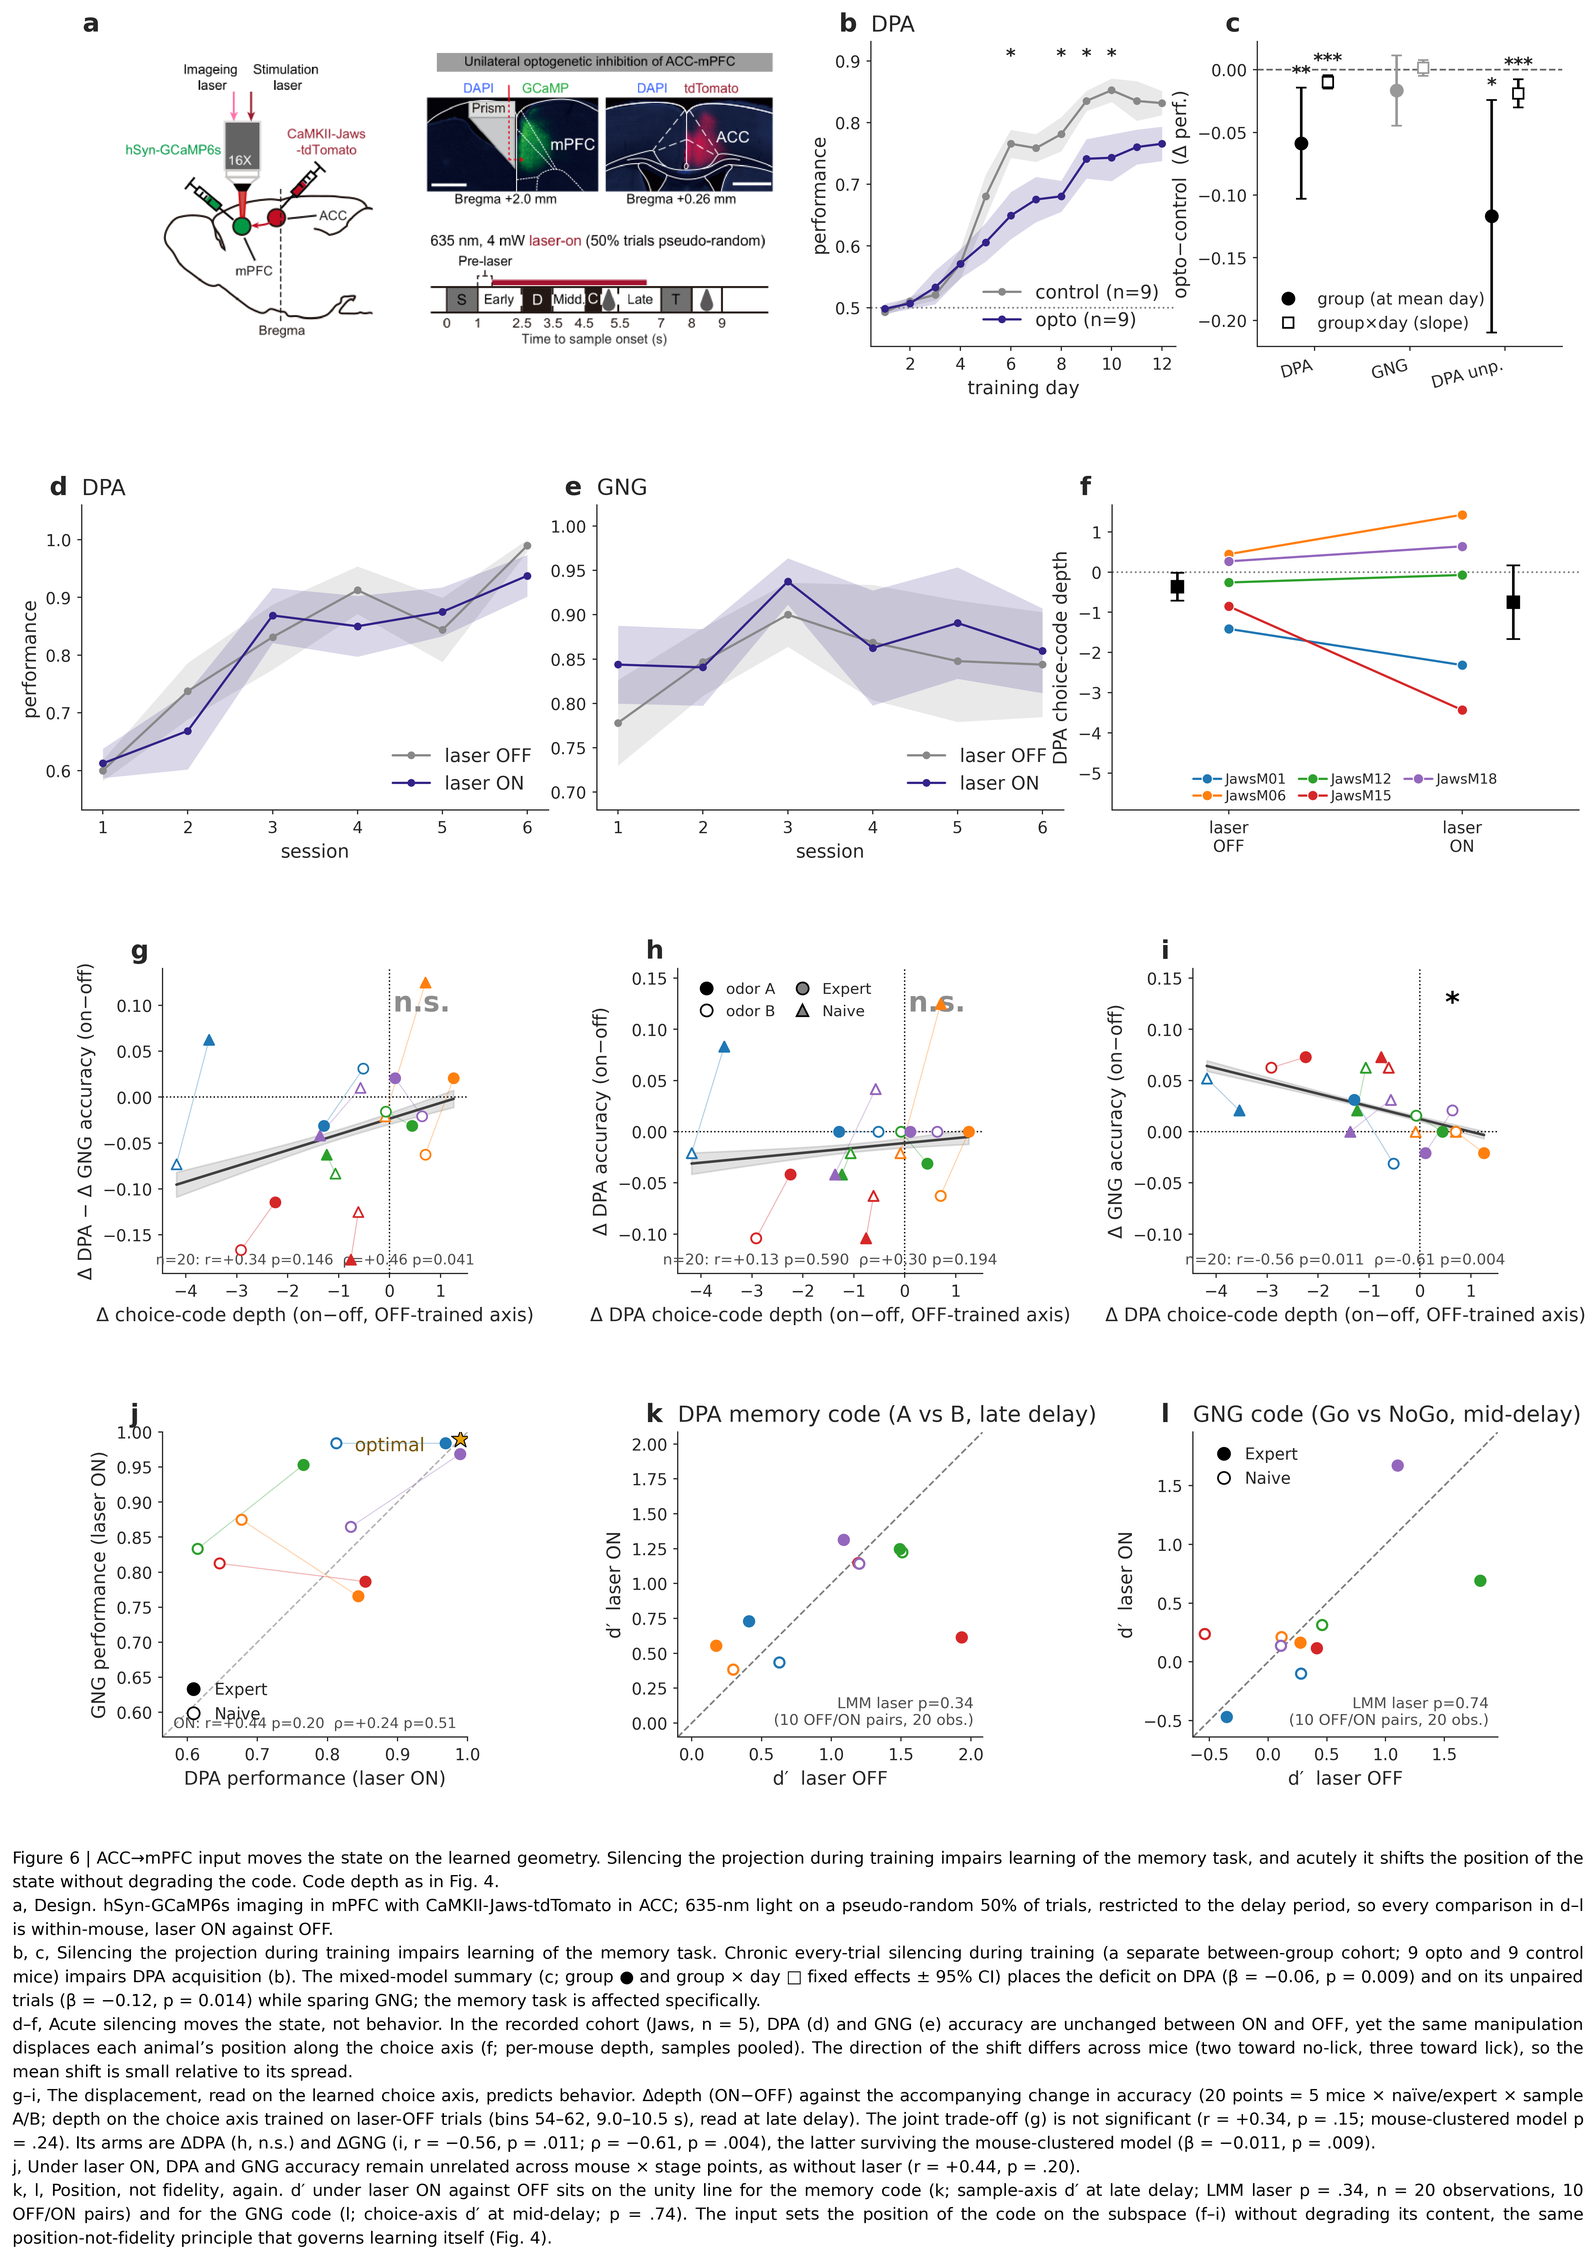
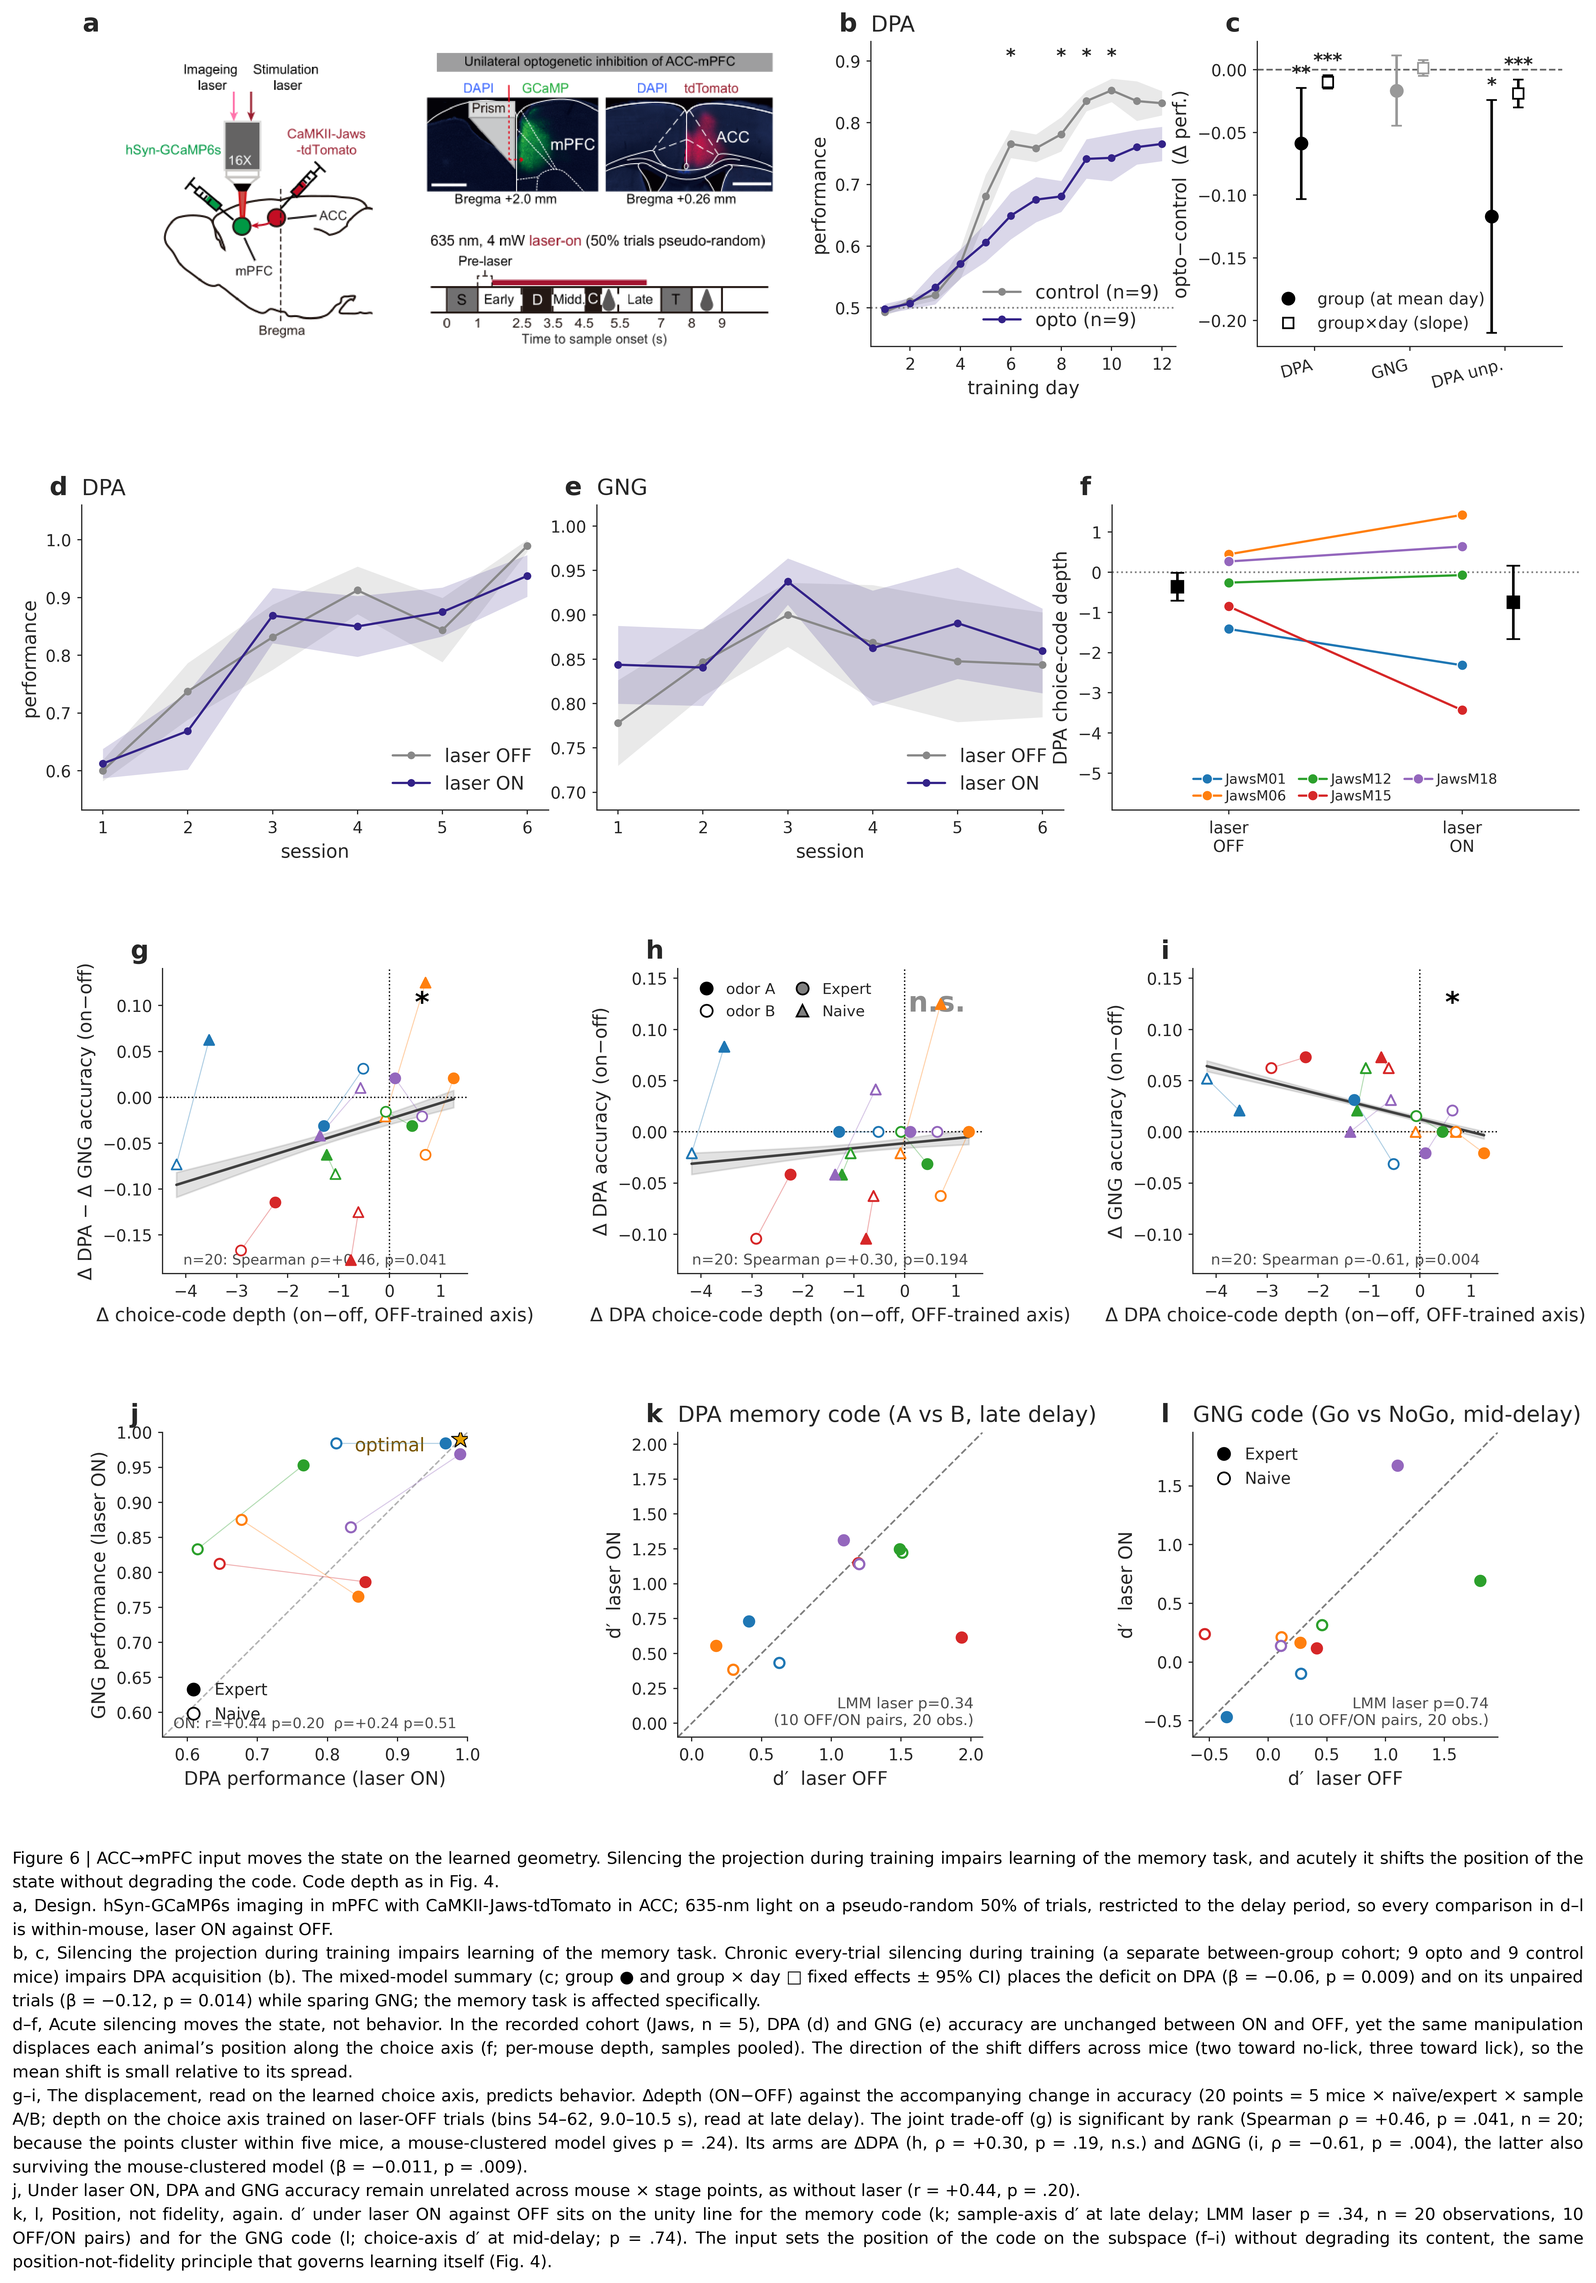
Fig 6 g-i: Spearman only, verdict from Spearman (g trade-off rho +0.46 p .041)
Leon: report Spearman in g, h and i; the joint trade-off is significant by rank. Pearson r removed
from the three panels and the text; the mouse-clustered model p stays in the legend as the
clustering disclosure. Fig 6 re-rendered and re-exported; share pages republished.

Claude-Session: https://claude.ai/code/session_01PzGzWMKHPqqyp4poHedntF

diff --git a/overlaps/fig_behavior_opto_main.py b/overlaps/fig_behavior_opto_main.py
@@ -673,10 +673,10 @@ for ax, key, ylab, msg in [
     r_p, p_p = pearsonr(xdep[ok], yv[ok]); rho, ps = spearmanr(xdep[ok], yv[ok])
     _b, _p, _nm, _no = _gi_lmm(key)                 # mouse-respecting LMM — logged caveat, NOT drawn
     print(f'  {key}: corr r={r_p:+.2f} p={p_p:.3f} ρ={rho:+.2f} p={ps:.3f}  |  LMM β={_b:+.3f} p={_p:.3f} ({_nm}m {_no}obs)')
-    ax.text(0.5, 0.02, f'n={ok.sum()}: r={r_p:+.2f} p={p_p:.3f}  ρ={rho:+.2f} p={ps:.3f}',
+    ax.text(0.5, 0.02, f'n={ok.sum()}: Spearman ρ={rho:+.2f}, p={ps:.3f}',   # Spearman only (Leon 2026-09-08)
             transform=ax.transAxes, ha='center', va='bottom', fontsize=PS*6.5, color='0.3')
-    ax.text(0.85, 0.93, '*' if _p < 0.05 else 'n.s.', transform=ax.transAxes, ha='center',        # verdict = mouse-clustered model
-            va='top', fontsize=PS*12, fontweight='bold', color='k' if _p < 0.05 else '0.55')
+    ax.text(0.85, 0.93, '*' if ps < 0.05 else 'n.s.', transform=ax.transAxes, ha='center',        # verdict = Spearman (Leon 2026-09-08); clustered model in the legend
+            va='top', fontsize=PS*12, fontweight='bold', color='k' if ps < 0.05 else '0.55')
     ax.set_xlabel('Δ choice-code depth (on−off)' if POSTER          # short: narrow poster cells
                   else f'Δ DPA choice-code depth (on−off, {AXIS_LBL})'); ax.set_ylabel(ylab)
     ax.set_title(msg, loc='left', fontsize=TITLE_FS)
@@ -771,10 +771,10 @@ _ok = ~(np.isnan(_xdep) | np.isnan(_ytr))
 _rp, _pp = pearsonr(_xdep[_ok], _ytr[_ok]); _rs, _ps = spearmanr(_xdep[_ok], _ytr[_ok])
 _gb, _gp, _gnm, _gno = _gi_lmm('trade')          # mouse-respecting LMM — logged caveat, NOT drawn
 print(f'  trade-off: corr r={_rp:+.2f} p={_pp:.3f} ρ={_rs:+.2f} p={_ps:.3f}  |  LMM β={_gb:+.3f} p={_gp:.3f} ({_gnm}m {_gno}obs)')
-axL.text(0.5, 0.02, f'n={_ok.sum()}: r={_rp:+.2f} p={_pp:.3f}  ρ={_rs:+.2f} p={_ps:.3f}',
+axL.text(0.5, 0.02, f'n={_ok.sum()}: Spearman ρ={_rs:+.2f}, p={_ps:.3f}',   # Spearman only (Leon 2026-09-08)
          transform=axL.transAxes, ha='center', va='bottom', fontsize=PS*6.2, color='0.3')
-axL.text(0.85, 0.93, '*' if _gp < 0.05 else 'n.s.', transform=axL.transAxes, ha='center',        # verdict = mouse-clustered model (review 2026-09-07)
-         va='top', fontsize=PS*12, fontweight='bold', color='k' if _gp < 0.05 else '0.55')
+axL.text(0.85, 0.93, '*' if _ps < 0.05 else 'n.s.', transform=axL.transAxes, ha='center',        # verdict = Spearman (Leon 2026-09-08); clustered model in the legend
+         va='top', fontsize=PS*12, fontweight='bold', color='k' if _ps < 0.05 else '0.55')
 axL.set_xlabel('Δ choice-code depth (on−off)' if POSTER else f'Δ choice-code depth (on−off, {AXIS_LBL})')
 axL.set_ylabel('Δ DPA − Δ GNG accuracy (on−off)')
 axL.set_box_aspect(1)
@@ -885,9 +885,9 @@ if not POSTER:
         'The direction of the shift differs across mice (two toward no-lick, three toward lick), so the mean shift is small relative to its spread.',
         'g–i, The displacement, read on the learned choice axis, predicts behavior. Δdepth (ON−OFF) '
         'against the accompanying change in accuracy (20 points = 5 mice × naïve/expert × sample A/B; '
-        'depth on the choice axis trained on laser-OFF trials (bins 54–62, 9.0–10.5 s), read at late delay). The joint trade-off (g) is not significant '
-        '(r = +0.34, p = .15; mouse-clustered model p = .24). Its arms are ΔDPA (h, n.s.) and ΔGNG '
-        '(i, r = −0.56, p = .011; ρ = −0.61, p = .004), the latter surviving the mouse-clustered model '
+        'depth on the choice axis trained on laser-OFF trials (bins 54–62, 9.0–10.5 s), read at late delay). The joint trade-off (g) is significant by rank '
+        '(Spearman ρ = +0.46, p = .041, n = 20; because the points cluster within five mice, a mouse-clustered model gives p = .24). '
+        'Its arms are ΔDPA (h, ρ = +0.30, p = .19, n.s.) and ΔGNG (i, ρ = −0.61, p = .004), the latter also surviving the mouse-clustered model '
         '(β = −0.011, p = .009).',
         'j, Under laser ON, DPA and GNG accuracy remain unrelated across mouse × stage points, as without laser (r = +0.44, p = .20).',
         'k, l, Position, not fidelity, again. d′ under laser ON against OFF sits on the unity line '

diff --git a/docs/paper/results_draft.md b/docs/paper/results_draft.md
@@ -723,7 +723,7 @@ the delay periods, so that every comparison is laser ON against OFF within the s
 OFF trials alike onto the choice axis trained on laser-OFF trials. Transient silencing produced
 no gross change in behavior (Fig. 6d,e; DPA p = 0.40, GNG p = 0.24), yet it displaced the delay
 choice code in each mouse (Fig. 6f), in a direction that differed between animals. Across the
-five animals, the displacement predicted the change in GNG accuracy (Fig. 6i; mouse-clustered model over 20 mouse × stage × sample observations, β = −0.011, p = 0.009; raw correlation over the 20 points r = −0.56, p = 0.011; ρ = −0.61, p = 0.004). The joint DPA−GNG trade-off was not significant (Fig. 6g; r = +0.34, p = 0.15 over n = 20 points that cluster within five mice; clustered p = 0.24), nor was the DPA arm (Fig. 6h). Under
+five animals, the displacement predicted the change in GNG accuracy (Fig. 6i; Spearman ρ = −0.61, p = 0.004 over the 20 points; mouse-clustered model over 20 mouse × stage × sample observations, β = −0.011, p = 0.009). The joint DPA−GNG trade-off was significant by rank (Fig. 6g; ρ = +0.46, p = 0.041 over n = 20 points that cluster within five mice; clustered model p = 0.24), and the DPA arm was not (Fig. 6h; ρ = +0.30, p = 0.19). Under
 laser, DPA and GNG accuracy remained unrelated across the mouse × stage points, as they were
 without laser (Fig. 6j; r = +0.44, p = 0.20). With five animals, the acute coupling is
 exploratory.
@@ -1223,7 +1223,7 @@ shift is small relative to its spread.
 
 g–i, The displacement, read on the learned choice axis, predicts behavior. Δdepth (ON−OFF)
 against the accompanying change in accuracy (20 points = 5 mice × naïve/expert × sample A/B;
-depth on the choice axis trained on laser-OFF trials (bins 54–62, 9.0–10.5 s), read at late delay). The joint trade-off (g) is not significant (r = +0.34, p = .15; mouse-clustered model p = .24). Its arms are ΔDPA (h, n.s.) and ΔGNG (i, r = −0.56, p = .011; ρ = −0.61, p = .004), the latter surviving the mouse-clustered model (β = −0.011, p = .009).
+depth on the choice axis trained on laser-OFF trials (bins 54–62, 9.0–10.5 s), read at late delay). The joint trade-off (g) is significant by rank (Spearman ρ = +0.46, p = .041, n = 20; because the points cluster within five mice, a mouse-clustered model gives p = .24). Its arms are ΔDPA (h, ρ = +0.30, p = .19, n.s.) and ΔGNG (i, ρ = −0.61, p = .004), the latter also surviving the mouse-clustered model (β = −0.011, p = .009).
 
 j, Under laser ON, DPA and GNG accuracy remain unrelated across mouse × stage points, as
 without laser (r = +0.44, p = .20).
